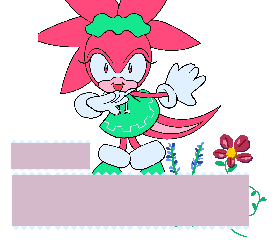
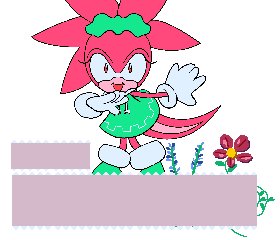
Tweaked character portraits. Text colors. Made backgrounds way smaller. Slowed down garbotnik deployment animation.

Changed region(s): [[0.8857, 0.7, 1.0, 0.9625], [0.1143, 0.1458, 0.1429, 0.175]]

diff --git a/main/modes/games/bigbug/entity_bigbug.c b/main/modes/games/bigbug/entity_bigbug.c
@@ -267,10 +267,10 @@ void bb_updateRocketLiftoff(bb_entity_t* self)
         freeFont(&self->gameData->cgFont);
         freeFont(&self->gameData->cgThinFont);
 
-        // bb_setupMidi();
-        // unloadMidiFile(&self->gameData->bgm);
-        // loadMidiFile("BigBug_Dr.Garbotniks Home.mid", &self->gameData->bgm, true);
-        // globalMidiPlayerPlaySong(&self->gameData->bgm, MIDI_BGM);
+        bb_setupMidi();
+        unloadMidiFile(&self->gameData->bgm);
+        loadMidiFile("BigBug_Dr.Garbotniks Home.mid", &self->gameData->bgm, true);
+        globalMidiPlayerPlaySong(&self->gameData->bgm, MIDI_BGM);
 
         bb_entity_t* ovo
             = bb_createEntity(&self->gameData->entityManager, NO_ANIMATION, true, OVO_TALK, 1,
@@ -1403,7 +1403,7 @@ void bb_updateMenu(bb_entity_t* self)
             for (int rocketIdx = 0; rocketIdx < 3; rocketIdx++)
             {
                 self->gameData->entityManager.boosterEntities[rocketIdx]
-                    = bb_createEntity(&self->gameData->entityManager, NO_ANIMATION, true, ROCKET_ANIM, 8,
+                    = bb_createEntity(&self->gameData->entityManager, NO_ANIMATION, true, ROCKET_ANIM, 16,
                                       (self->pos.x >> DECIMAL_BITS) - 96 + 96 * rocketIdx,
                                       (self->pos.y >> DECIMAL_BITS) + 375, true, false);
 
@@ -2281,18 +2281,18 @@ void bb_drawCharacterTalk(bb_entityManager_t* entityManager, rectangle_t* camera
 
     if (dData->curString >= 0 && dData->curString < dData->numStrings)
     {
-        paletteColor_t textColor = c414; // garbotnik
+        paletteColor_t textColor = c525; // garbotnik
         if (strcmp(dData->characters[dData->curString], "Pixel") == 0)
         {
-            textColor = c302;
+            textColor = c402;
         }
         else if (strcmp(dData->characters[dData->curString], "Pango") == 0)
         {
-            textColor = c551;
+            textColor = c552;
         }
         else if (strcmp(dData->characters[dData->curString], "Po") == 0)
         {
-            textColor = c400;
+            textColor = c544;
         }
         drawText(&self->gameData->font, textColor, dData->characters[dData->curString], 13, 152);
 
@@ -2450,30 +2450,6 @@ void bb_drawRocket(bb_entityManager_t* entityManager, rectangle_t* camera, bb_en
         // increment the frame counter
         self->animationTimer += 1;
         self->currentAnimationFrame = self->animationTimer / self->gameFramesPerAnimationFrame;
-        // if frame reached the end of the animation
-        if (self->currentAnimationFrame >= entityManager->sprites[self->spriteIndex].numFrames)
-        {
-            switch (self->type)
-            {
-                case ONESHOT_ANIMATION:
-                {
-                    // destroy the entity
-                    bb_destroyEntity(self, false);
-                    break;
-                }
-                case LOOPING_ANIMATION:
-                {
-                    // reset the animation
-                    self->animationTimer        = 0;
-                    self->currentAnimationFrame = 0;
-                    break;
-                }
-                default:
-                {
-                    break;
-                }
-            }
-        }
     }
 }
 

diff --git a/main/modes/games/bigbug/mode_bigbug.c b/main/modes/games/bigbug/mode_bigbug.c
@@ -232,7 +232,7 @@ static void bb_EnterModeSkipIntro(void)
     for (int rocketIdx = 0; rocketIdx < 3; rocketIdx++)
     {
         bigbug->gameData.entityManager.boosterEntities[rocketIdx] = bb_createEntity(
-            &bigbug->gameData.entityManager, NO_ANIMATION, true, ROCKET_ANIM, 8,
+            &bigbug->gameData.entityManager, NO_ANIMATION, true, ROCKET_ANIM, 16,
             (bigbug->gameData.entityManager.deathDumpster->pos.x >> DECIMAL_BITS) - 96 + 96 * rocketIdx,
             (bigbug->gameData.entityManager.deathDumpster->pos.y >> DECIMAL_BITS), true, false);
 
